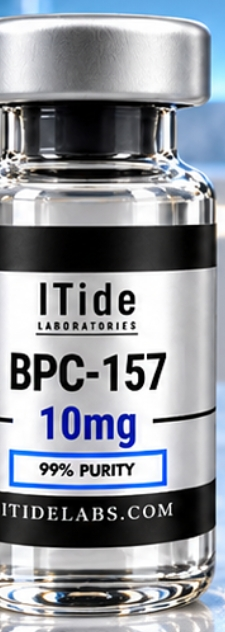
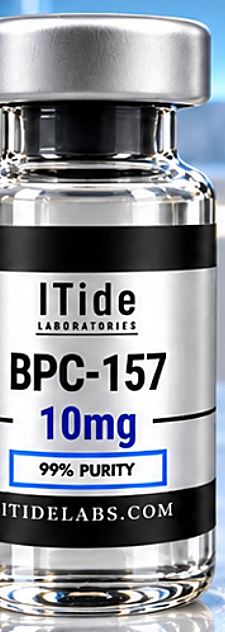
Rebuild ITide films around sharp product-card crops; landscape re-renders
Claude-Session: https://claude.ai/code/session_01QjAKLpiteU15koAaCvDQVZ

diff --git a/promo-itide-brand/film.js b/promo-itide-brand/film.js
@@ -104,13 +104,13 @@ function sBrandHook(ctx, u) {         // wordmark builds, then RESEARCH-GRADE
 function sHeroPhoto(ctx, u, IMG) {    // the site's hero photo: ITide sign + four vials, slow push
   bg(ctx);
   const k = springU(u, -0.4, SPRING.gentle);
-  const w = P ? W - 2 * 50 : W * 0.62, h = P ? w * 1.09 : H * 0.8;
-  const x = (W - w) / 2 + (P ? 0 : -W * 0.14), y = P ? H * 0.3 : (H - h) / 2;
+  const w = P ? W - 2 * 50 : W * 0.5, h = P ? w * 1.09 : H * 0.86;
+  const x = P ? (W - w) / 2 : W * 0.05, y = P ? H * 0.3 : (H - h) / 2;
   ctx.save(); ctx.translate(0, (1 - k) * H * 0.6);
-  card(ctx, IMG.hero, x, y, w, h, { zoom: 1.0 * 1.15 ** prog(u, 0, 4), fy: P ? 0.55 : 0.2 });
+  card(ctx, IMG.hero, x, y, w, h, { zoom: 1.0 * 1.04 ** prog(u, 0, 4), fy: P ? 0.55 : 0.3 });
   ctx.restore();
-  const tx = P ? S.x + 10 : W * 0.69, ty = P ? S.y + 100 : H * 0.42;
-  const hs = P ? 130 : Math.min(110, fitSize(ctx, DARK ? 'RESEARCH-GRADE' : 'ALL PEPTIDES', 700, DISPLAY, W * 0.27, 110, 0.02));
+  const tx = P ? S.x + 10 : W * 0.6, ty = P ? S.y + 100 : H * 0.42;
+  const hs = P ? 130 : Math.min(110, fitSize(ctx, DARK ? 'RESEARCH-GRADE' : 'ALL PEPTIDES', 700, DISPLAY, W * 0.36, 130, 0.02));
   rows(ctx, [[DARK ? 'RESEARCH-GRADE' : 'ALL PEPTIDES', FG], [DARK ? 'PEPTIDES.' : '25% OFF.', DARK ? C.blueHi : C.red]], tx, ty, hs, hs * 1.02,
     (i) => springU(u, 0.4 + i * 0.4, SPRING.snappy), 'left', 2);
   const sk = E.outQuint(prog(u, 1.4, 2));
@@ -122,7 +122,7 @@ const VIALS = [['v_bpc', 'BPC-157', '10MG', 0.9], ['v_tb500', 'TB-500', '10MG', 
 function sLineup(ctx, u, IMG) {       // three vials pop in one per beat (sale)
   bg(ctx);
   const n = VIALS.length, gap = P ? 28 : 40;
-  const cw = P ? (W - 2 * S.x - gap * (n - 1)) / n : 330, ch = cw * 1.9;
+  const cw = P ? (W - 2 * S.x - gap * (n - 1)) / n : 290, ch = cw * 1.9;
   const x0 = (W - (cw * n + gap * (n - 1))) / 2, y0 = P ? H * 0.3 : H * 0.24;
   VIALS.forEach(([img, name, mg, fx], i) => {
     const k = springU(u, -0.2 + i * 0.6, SPRING.bouncy); if (k <= 0) return;
@@ -138,8 +138,8 @@ function sLineup(ctx, u, IMG) {       // three vials pop in one per beat (sale)
 function sPrice(ctx, u, IMG) {        // Big R 20mg: $125.00 -> $85.00 (the site's product page)
   bg(ctx);
   const k = springU(u, -0.3, SPRING.gentle);
-  const vw = P ? 560 : 390, vh = vw * 2.35;
-  const vx = P ? W / 2 - vw / 2 : W * 0.2, vy = P ? S.y + 40 : (H - vh) / 2 + 60;
+  const vw = P ? 330 : 330, vh = vw * 2.35;
+  const vx = P ? W / 2 - vw / 2 : W * 0.26, vy = P ? S.y + 60 : (H - vh) / 2;
   ctx.save(); ctx.translate(0, (1 - k) * H * 0.5);
   ctx.save(); ctx.shadowColor = 'rgba(15,27,45,0.35)'; ctx.shadowBlur = 60; ctx.shadowOffsetY = 24;
   rrect(ctx, vx, vy, vw, vh, 34); ctx.fillStyle = C.navy; ctx.fill(); ctx.restore();
@@ -196,6 +196,42 @@ function sKlow(ctx, u, IMG) {
   text(ctx, '99% PURITY · NOT FOR HUMAN OR VETERINARY USE', tx, ty + (P ? 300 : 270), font(P ? 30 : 26, 500, UI), '#93c5fd', 'left', 4);
   ctx.restore();
 }
+const CARDS = {
+  ipa: ['c_ipamorelin', 'IPAMORELIN', '10MG'], glow: ['c_glow', 'GLOW', '70MG'], cagri: ['c_cagri', 'CAGRILINTIDE', '10MG'],
+  bigt: ['c_bigt', 'BIG T', '50MG'], klow: ['c_klow', 'KLOW', '80MG'],
+};
+function sCard(ctx, u, IMG, key, side = 1) {
+  bg(ctx);
+  const [img, name, mg] = CARDS[key], im = IMG[img];
+  const k = springU(u, -0.5, SPRING.gentle);
+  const w = P ? Math.min(im.width * 1.04, W - 80) : 820, h = w * im.height / im.width;
+  const x = P ? (W - w) / 2 : (side > 0 ? W * 0.06 : W * 0.94 - w), y = P ? S.y + 10 : (H - h) / 2;
+  ctx.save(); ctx.translate((1 - k) * side * (P ? 0 : -W * 0.5), (1 - k) * (P ? H * 0.4 : 0));
+  ctx.save(); ctx.shadowColor = 'rgba(0,0,0,0.45)'; ctx.shadowBlur = 70; ctx.shadowOffsetY = 26;
+  rrect(ctx, x, y, w, h, 30); ctx.fillStyle = C.navy; ctx.fill(); ctx.restore();
+  cover(ctx, im, x, y, w, h, { radius: 30, zoom: 1.0 * 1.03 ** prog(u, 0, 4) });
+  ctx.restore();
+  const tx = P ? S.x + 10 : (side > 0 ? W * 0.56 : W * 0.08), ty = P ? y + h + 170 : H * 0.42;
+  const ns = Math.min(P ? 150 : 140, fitSize(ctx, name, 700, DISPLAY, P ? S.w : W * 0.38, 160, 0.02));
+  rows(ctx, [[name, FG], [mg + ' · 99%', DARK ? C.blueHi : C.blue]], tx, ty, ns, ns * 0.95, (i) => springU(u, 0.2 + i * 0.35, SPRING.snappy), 'left', 2);
+  const ck = springU(u, 1.2, SPRING.snappy);
+  if (ck > 0) chip(ctx, 'CERTIFICATE OF ANALYSIS', tx, ty + ns + (P ? 40 : 40), P ? 38 : 34,
+    { stroke: DARK ? '#93c5fd' : C.blue, ink: DARK ? '#93c5fd' : C.blue, scale: ck, f: UI, w8: 700, track: 4, padX: 28 });
+}
+function cardGrid(ctx, u, IMG, alpha) {
+  const keys = ['ipa', 'glow', 'cagri', 'bigt', 'klow', 'ipa'];
+  const cs = P ? 470 : 440, gap = 30, cols = P ? 2 : 4;
+  const rowsN = P ? 4 : 2;
+  const gw = cols * cs + (cols - 1) * gap, x0 = (W - gw) / 2 - (u * 20) % (cs + gap) + (cs + gap) / 2;
+  ctx.save(); ctx.globalAlpha = alpha;
+  for (let r = 0; r < rowsN + 1; r++) for (let c = -1; c < cols + 1; c++) {
+    const im = IMG[CARDS[keys[(r * 3 + c + 12) % keys.length]][0]];
+    const x = x0 + c * (cs + gap), y = (P ? 200 : 40) + r * (cs + gap) - (u * 30) % (cs + gap);
+    rrect(ctx, x, y, cs, cs, 24); ctx.fillStyle = C.navy; ctx.fill();
+    cover(ctx, im, x, y, cs, cs, { radius: 24 });
+  }
+  ctx.restore();
+}
 function sCode(ctx, u) {              // sale: code + tap to copy
   bg(ctx);
   band(ctx, P ? S.y - 60 : 0, P ? 90 : 80, u);
@@ -213,10 +249,8 @@ function sCode(ctx, u) {              // sale: code + tap to copy
 function sCatalogue(ctx, u, IMG) {    // brand: research-use band + SHOP FULL CATALOGUE
   bg(ctx);
   const hk = springU(u, -0.3, SPRING.gentle);
-  ctx.save(); ctx.globalAlpha = 0.35 * hk;
-  cover(ctx, IMG.hero, 0, 0, W, H, { zoom: 1.1 + 0.05 * prog(u, 0, 4) });
-  ctx.restore();
-  ctx.fillStyle = 'rgba(15,27,45,0.72)'; ctx.fillRect(0, 0, W, H);
+  cardGrid(ctx, u, IMG, 0.5 * hk);
+  ctx.fillStyle = 'rgba(15,27,45,0.62)'; ctx.fillRect(0, 0, W, H);
   band(ctx, H * 0.3, P ? 110 : 100, u, C.navy2, 'rgba(255,255,255,0.85)', 160);
   band(ctx, H * 0.3 + (P ? 130 : 120), P ? 110 : 100, -u, C.blue, 'rgba(255,255,255,0.9)', 160);
   rows(ctx, [['SHOP FULL', C.white], ['CATALOGUE', C.blueHi]], W / 2, H * (P ? 0.58 : 0.7), P ? 150 : 130, P ? 150 : 130, (i) => springU(u, 0.6 + i * 0.4, SPRING.snappy), 'center', 4);
@@ -253,16 +287,16 @@ const EDITS = {
     [28, sEnd, [[-0.2, 'logo', 'impact'], [0.6, 'url', 'bell', { pitch: 'A5' }], [1.4, 'chip', 'pop', { pitch: 'E6' }]]]],
   brand: [[0, sBrandHook, [[-0.3, 'logo', 'impact'], [1.4, 'grade', 'tick']]],
     [4, sHeroPhoto, [[0.4, 'r1', 'tick'], [0.8, 'r2', 'tick']]],
-    [8, (c, u, I) => sVial(c, u, I, VIALS[0], 1), [[0, 'v', 'thud']]],
-    [12, (c, u, I) => sVial(c, u, I, VIALS[1], -1), [[0, 'v', 'thud']]],
-    [16, (c, u, I) => sVial(c, u, I, VIALS[2], 1), [[0, 'v', 'thud']]],
-    [20, sKlow, [[0.3, 'r1', 'tick'], [0.6, 'r2', 'tick'], [0.9, 'r3', 'tick']]],
+    [8, (c, u, I) => sCard(c, u, I, 'ipa', 1), [[0, 'v', 'thud'], [1.2, 'coa', 'pop', { pitch: 'A5' }]]],
+    [12, (c, u, I) => sCard(c, u, I, 'glow', -1), [[0, 'v', 'thud'], [1.2, 'coa', 'pop', { pitch: 'C6' }]]],
+    [16, (c, u, I) => sCard(c, u, I, 'cagri', 1), [[0, 'v', 'thud'], [1.2, 'coa', 'pop', { pitch: 'E6' }]]],
+    [20, (c, u, I) => sCard(c, u, I, 'klow', -1), [[0, 'v', 'thud'], [1.2, 'coa', 'pop', { pitch: 'A5' }]]],
     [24, sCatalogue, [[0.6, 'shop', 'tick'], [1.0, 'cat', 'tick']]],
     [28, sEnd, [[-0.2, 'logo', 'impact'], [0.6, 'url', 'bell', { pitch: 'A5' }], [1.4, 'chip', 'pop', { pitch: 'E6' }]]]],
 };
 function sCatalogueLight(ctx, u, IMG) { sCatalogue(ctx, u, IMG); }
 // sale: the second lineup slot (20-24) shows the hero photo again with the band instead, for variety
-EDITS.sale[5] = [20, (c, u, I) => { bg(c); band(c, 0, H, u, C.navy, 'rgba(255,255,255,0.08)', 60); sLineupDark(c, u, I); }, [[0, 'wall', 'thud']]];
+EDITS.sale[5] = [20, (c, u, I) => sCard(c, u, I, 'klow', -1), [[0, 'card', 'thud'], [1.2, 'coa', 'pop', { pitch: 'A5' }]]];
 function sLineupDark(ctx, u, IMG) {
   // the four-vial hero photo, full bleed with a slow pan, + "RESEARCH USE ONLY" band
   const k = springU(u, -0.4, SPRING.gentle);
@@ -284,7 +318,7 @@ const drawScene = (i, ctx, u, IMG) => SCENES[i][1](ctx, u - SCENES[i][0], IMG);
 
 M.film({
   fonts: [font(100, 700, DISPLAY), font(40, 500, UI), font(40, 700, UI)],
-  images: Object.fromEntries(['hero', 'v_bpc', 'v_tb500', 'v_nad', 'v_big', 'klow_card'].map((k) => [k, `assets/products/${k}.png`])),
+  images: Object.fromEntries(['hero', 'v_bpc', 'v_tb500', 'v_nad', 'v_big', 'c_ipamorelin', 'c_glow', 'c_cagri', 'c_bigt', 'c_klow'].map((k) => [k, `assets/products/${k}.png`])),
   hits: HITS,
   draw(ctx, u, t, IMG) {
     for (const [b, [dx, dy]] of Object.entries(WHIPS).map(([b, v]) => [Number(b), v])) {

diff --git a/promo-itide-sale/film.js b/promo-itide-sale/film.js
@@ -104,13 +104,13 @@ function sBrandHook(ctx, u) {         // wordmark builds, then RESEARCH-GRADE
 function sHeroPhoto(ctx, u, IMG) {    // the site's hero photo: ITide sign + four vials, slow push
   bg(ctx);
   const k = springU(u, -0.4, SPRING.gentle);
-  const w = P ? W - 2 * 50 : W * 0.62, h = P ? w * 1.09 : H * 0.8;
-  const x = (W - w) / 2 + (P ? 0 : -W * 0.14), y = P ? H * 0.3 : (H - h) / 2;
+  const w = P ? W - 2 * 50 : W * 0.5, h = P ? w * 1.09 : H * 0.86;
+  const x = P ? (W - w) / 2 : W * 0.05, y = P ? H * 0.3 : (H - h) / 2;
   ctx.save(); ctx.translate(0, (1 - k) * H * 0.6);
-  card(ctx, IMG.hero, x, y, w, h, { zoom: 1.0 * 1.15 ** prog(u, 0, 4), fy: P ? 0.55 : 0.2 });
+  card(ctx, IMG.hero, x, y, w, h, { zoom: 1.0 * 1.04 ** prog(u, 0, 4), fy: P ? 0.55 : 0.3 });
   ctx.restore();
-  const tx = P ? S.x + 10 : W * 0.69, ty = P ? S.y + 100 : H * 0.42;
-  const hs = P ? 130 : Math.min(110, fitSize(ctx, DARK ? 'RESEARCH-GRADE' : 'ALL PEPTIDES', 700, DISPLAY, W * 0.27, 110, 0.02));
+  const tx = P ? S.x + 10 : W * 0.6, ty = P ? S.y + 100 : H * 0.42;
+  const hs = P ? 130 : Math.min(110, fitSize(ctx, DARK ? 'RESEARCH-GRADE' : 'ALL PEPTIDES', 700, DISPLAY, W * 0.36, 130, 0.02));
   rows(ctx, [[DARK ? 'RESEARCH-GRADE' : 'ALL PEPTIDES', FG], [DARK ? 'PEPTIDES.' : '25% OFF.', DARK ? C.blueHi : C.red]], tx, ty, hs, hs * 1.02,
     (i) => springU(u, 0.4 + i * 0.4, SPRING.snappy), 'left', 2);
   const sk = E.outQuint(prog(u, 1.4, 2));
@@ -122,7 +122,7 @@ const VIALS = [['v_bpc', 'BPC-157', '10MG', 0.9], ['v_tb500', 'TB-500', '10MG', 
 function sLineup(ctx, u, IMG) {       // three vials pop in one per beat (sale)
   bg(ctx);
   const n = VIALS.length, gap = P ? 28 : 40;
-  const cw = P ? (W - 2 * S.x - gap * (n - 1)) / n : 330, ch = cw * 1.9;
+  const cw = P ? (W - 2 * S.x - gap * (n - 1)) / n : 290, ch = cw * 1.9;
   const x0 = (W - (cw * n + gap * (n - 1))) / 2, y0 = P ? H * 0.3 : H * 0.24;
   VIALS.forEach(([img, name, mg, fx], i) => {
     const k = springU(u, -0.2 + i * 0.6, SPRING.bouncy); if (k <= 0) return;
@@ -138,8 +138,8 @@ function sLineup(ctx, u, IMG) {       // three vials pop in one per beat (sale)
 function sPrice(ctx, u, IMG) {        // Big R 20mg: $125.00 -> $85.00 (the site's product page)
   bg(ctx);
   const k = springU(u, -0.3, SPRING.gentle);
-  const vw = P ? 560 : 390, vh = vw * 2.35;
-  const vx = P ? W / 2 - vw / 2 : W * 0.2, vy = P ? S.y + 40 : (H - vh) / 2 + 60;
+  const vw = P ? 330 : 330, vh = vw * 2.35;
+  const vx = P ? W / 2 - vw / 2 : W * 0.26, vy = P ? S.y + 60 : (H - vh) / 2;
   ctx.save(); ctx.translate(0, (1 - k) * H * 0.5);
   ctx.save(); ctx.shadowColor = 'rgba(15,27,45,0.35)'; ctx.shadowBlur = 60; ctx.shadowOffsetY = 24;
   rrect(ctx, vx, vy, vw, vh, 34); ctx.fillStyle = C.navy; ctx.fill(); ctx.restore();
@@ -196,6 +196,42 @@ function sKlow(ctx, u, IMG) {
   text(ctx, '99% PURITY · NOT FOR HUMAN OR VETERINARY USE', tx, ty + (P ? 300 : 270), font(P ? 30 : 26, 500, UI), '#93c5fd', 'left', 4);
   ctx.restore();
 }
+const CARDS = {
+  ipa: ['c_ipamorelin', 'IPAMORELIN', '10MG'], glow: ['c_glow', 'GLOW', '70MG'], cagri: ['c_cagri', 'CAGRILINTIDE', '10MG'],
+  bigt: ['c_bigt', 'BIG T', '50MG'], klow: ['c_klow', 'KLOW', '80MG'],
+};
+function sCard(ctx, u, IMG, key, side = 1) {
+  bg(ctx);
+  const [img, name, mg] = CARDS[key], im = IMG[img];
+  const k = springU(u, -0.5, SPRING.gentle);
+  const w = P ? Math.min(im.width * 1.04, W - 80) : 820, h = w * im.height / im.width;
+  const x = P ? (W - w) / 2 : (side > 0 ? W * 0.06 : W * 0.94 - w), y = P ? S.y + 10 : (H - h) / 2;
+  ctx.save(); ctx.translate((1 - k) * side * (P ? 0 : -W * 0.5), (1 - k) * (P ? H * 0.4 : 0));
+  ctx.save(); ctx.shadowColor = 'rgba(0,0,0,0.45)'; ctx.shadowBlur = 70; ctx.shadowOffsetY = 26;
+  rrect(ctx, x, y, w, h, 30); ctx.fillStyle = C.navy; ctx.fill(); ctx.restore();
+  cover(ctx, im, x, y, w, h, { radius: 30, zoom: 1.0 * 1.03 ** prog(u, 0, 4) });
+  ctx.restore();
+  const tx = P ? S.x + 10 : (side > 0 ? W * 0.56 : W * 0.08), ty = P ? y + h + 170 : H * 0.42;
+  const ns = Math.min(P ? 150 : 140, fitSize(ctx, name, 700, DISPLAY, P ? S.w : W * 0.38, 160, 0.02));
+  rows(ctx, [[name, FG], [mg + ' · 99%', DARK ? C.blueHi : C.blue]], tx, ty, ns, ns * 0.95, (i) => springU(u, 0.2 + i * 0.35, SPRING.snappy), 'left', 2);
+  const ck = springU(u, 1.2, SPRING.snappy);
+  if (ck > 0) chip(ctx, 'CERTIFICATE OF ANALYSIS', tx, ty + ns + (P ? 40 : 40), P ? 38 : 34,
+    { stroke: DARK ? '#93c5fd' : C.blue, ink: DARK ? '#93c5fd' : C.blue, scale: ck, f: UI, w8: 700, track: 4, padX: 28 });
+}
+function cardGrid(ctx, u, IMG, alpha) {
+  const keys = ['ipa', 'glow', 'cagri', 'bigt', 'klow', 'ipa'];
+  const cs = P ? 470 : 440, gap = 30, cols = P ? 2 : 4;
+  const rowsN = P ? 4 : 2;
+  const gw = cols * cs + (cols - 1) * gap, x0 = (W - gw) / 2 - (u * 20) % (cs + gap) + (cs + gap) / 2;
+  ctx.save(); ctx.globalAlpha = alpha;
+  for (let r = 0; r < rowsN + 1; r++) for (let c = -1; c < cols + 1; c++) {
+    const im = IMG[CARDS[keys[(r * 3 + c + 12) % keys.length]][0]];
+    const x = x0 + c * (cs + gap), y = (P ? 200 : 40) + r * (cs + gap) - (u * 30) % (cs + gap);
+    rrect(ctx, x, y, cs, cs, 24); ctx.fillStyle = C.navy; ctx.fill();
+    cover(ctx, im, x, y, cs, cs, { radius: 24 });
+  }
+  ctx.restore();
+}
 function sCode(ctx, u) {              // sale: code + tap to copy
   bg(ctx);
   band(ctx, P ? S.y - 60 : 0, P ? 90 : 80, u);
@@ -213,10 +249,8 @@ function sCode(ctx, u) {              // sale: code + tap to copy
 function sCatalogue(ctx, u, IMG) {    // brand: research-use band + SHOP FULL CATALOGUE
   bg(ctx);
   const hk = springU(u, -0.3, SPRING.gentle);
-  ctx.save(); ctx.globalAlpha = 0.35 * hk;
-  cover(ctx, IMG.hero, 0, 0, W, H, { zoom: 1.1 + 0.05 * prog(u, 0, 4) });
-  ctx.restore();
-  ctx.fillStyle = 'rgba(15,27,45,0.72)'; ctx.fillRect(0, 0, W, H);
+  cardGrid(ctx, u, IMG, 0.5 * hk);
+  ctx.fillStyle = 'rgba(15,27,45,0.62)'; ctx.fillRect(0, 0, W, H);
   band(ctx, H * 0.3, P ? 110 : 100, u, C.navy2, 'rgba(255,255,255,0.85)', 160);
   band(ctx, H * 0.3 + (P ? 130 : 120), P ? 110 : 100, -u, C.blue, 'rgba(255,255,255,0.9)', 160);
   rows(ctx, [['SHOP FULL', C.white], ['CATALOGUE', C.blueHi]], W / 2, H * (P ? 0.58 : 0.7), P ? 150 : 130, P ? 150 : 130, (i) => springU(u, 0.6 + i * 0.4, SPRING.snappy), 'center', 4);
@@ -253,16 +287,16 @@ const EDITS = {
     [28, sEnd, [[-0.2, 'logo', 'impact'], [0.6, 'url', 'bell', { pitch: 'A5' }], [1.4, 'chip', 'pop', { pitch: 'E6' }]]]],
   brand: [[0, sBrandHook, [[-0.3, 'logo', 'impact'], [1.4, 'grade', 'tick']]],
     [4, sHeroPhoto, [[0.4, 'r1', 'tick'], [0.8, 'r2', 'tick']]],
-    [8, (c, u, I) => sVial(c, u, I, VIALS[0], 1), [[0, 'v', 'thud']]],
-    [12, (c, u, I) => sVial(c, u, I, VIALS[1], -1), [[0, 'v', 'thud']]],
-    [16, (c, u, I) => sVial(c, u, I, VIALS[2], 1), [[0, 'v', 'thud']]],
-    [20, sKlow, [[0.3, 'r1', 'tick'], [0.6, 'r2', 'tick'], [0.9, 'r3', 'tick']]],
+    [8, (c, u, I) => sCard(c, u, I, 'ipa', 1), [[0, 'v', 'thud'], [1.2, 'coa', 'pop', { pitch: 'A5' }]]],
+    [12, (c, u, I) => sCard(c, u, I, 'glow', -1), [[0, 'v', 'thud'], [1.2, 'coa', 'pop', { pitch: 'C6' }]]],
+    [16, (c, u, I) => sCard(c, u, I, 'cagri', 1), [[0, 'v', 'thud'], [1.2, 'coa', 'pop', { pitch: 'E6' }]]],
+    [20, (c, u, I) => sCard(c, u, I, 'klow', -1), [[0, 'v', 'thud'], [1.2, 'coa', 'pop', { pitch: 'A5' }]]],
     [24, sCatalogue, [[0.6, 'shop', 'tick'], [1.0, 'cat', 'tick']]],
     [28, sEnd, [[-0.2, 'logo', 'impact'], [0.6, 'url', 'bell', { pitch: 'A5' }], [1.4, 'chip', 'pop', { pitch: 'E6' }]]]],
 };
 function sCatalogueLight(ctx, u, IMG) { sCatalogue(ctx, u, IMG); }
 // sale: the second lineup slot (20-24) shows the hero photo again with the band instead, for variety
-EDITS.sale[5] = [20, (c, u, I) => { bg(c); band(c, 0, H, u, C.navy, 'rgba(255,255,255,0.08)', 60); sLineupDark(c, u, I); }, [[0, 'wall', 'thud']]];
+EDITS.sale[5] = [20, (c, u, I) => sCard(c, u, I, 'klow', -1), [[0, 'card', 'thud'], [1.2, 'coa', 'pop', { pitch: 'A5' }]]];
 function sLineupDark(ctx, u, IMG) {
   // the four-vial hero photo, full bleed with a slow pan, + "RESEARCH USE ONLY" band
   const k = springU(u, -0.4, SPRING.gentle);
@@ -284,7 +318,7 @@ const drawScene = (i, ctx, u, IMG) => SCENES[i][1](ctx, u - SCENES[i][0], IMG);
 
 M.film({
   fonts: [font(100, 700, DISPLAY), font(40, 500, UI), font(40, 700, UI)],
-  images: Object.fromEntries(['hero', 'v_bpc', 'v_tb500', 'v_nad', 'v_big', 'klow_card'].map((k) => [k, `assets/products/${k}.png`])),
+  images: Object.fromEntries(['hero', 'v_bpc', 'v_tb500', 'v_nad', 'v_big', 'c_ipamorelin', 'c_glow', 'c_cagri', 'c_bigt', 'c_klow'].map((k) => [k, `assets/products/${k}.png`])),
   hits: HITS,
   draw(ctx, u, t, IMG) {
     for (const [b, [dx, dy]] of Object.entries(WHIPS).map(([b, v]) => [Number(b), v])) {
